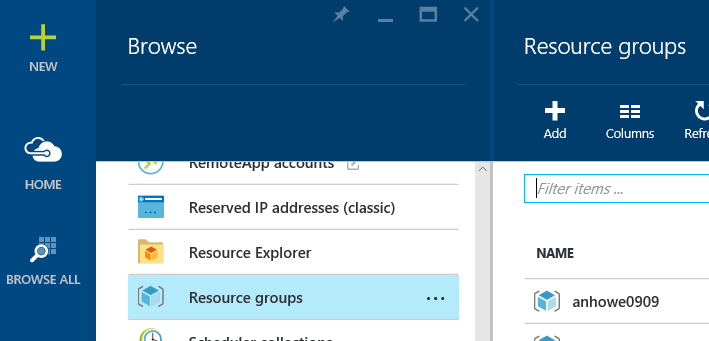
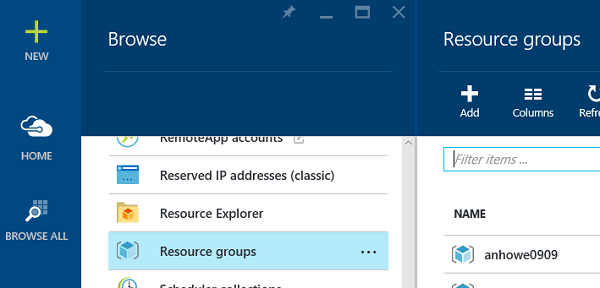
Added swarm walkthrough to readme and resized all images so they are less than 600 pixels wide

diff --git a/README.md b/README.md
@@ -85,6 +85,26 @@ This walk through is based the wonderful digital ocean tutorial: https://www.dig
 
  ![Image of mesos cluster on azure](https://raw.githubusercontent.com/anhowe/mesos-scalable-cluster/master/images/mesos-completed-tasks.png)
 
+# Swarm Walkthrough
+
+1. from the jumpbox browse to http://c1master1:5050/#/frameworks, and verify swarm is working:
+
+![Image of mesos cluster on azure](https://raw.githubusercontent.com/anhowe/mesos-scalable-cluster/master/images/swarm-framework.png)
+
+2. SSH to the master from the jumpbox or hitting port 2211 on the public IP
+
+3. Run "sudo docker ps" and observe that swarm is working
+
+4. Run "sudo docker -H tcp://0.0.0.0:2376 ps" and see there are no jobs
+
+5. Run "sudo docker -H tcp://0.0.0.0:2376 run hello-world" and notice the error about resource contraints.  Now add the constraints by running "sudo docker -H tcp://0.0.0.0:2376 run -m 256m hello-world" and watch it run.
+
+6. Run "sudo docker -H tcp://0.0.0.0:2376 ps -a" and see the hello-world that has just run
+
+7. Browse to http://c1master1:5050/, and see the "hello-world" process that has just completed.  Browse to Log:
+
+![Image of mesos cluster on azure](https://raw.githubusercontent.com/anhowe/mesos-scalable-cluster/master/images/docker-hello-world.png)
+
 # Questions
 **Q.** Why is there a jumpbox?
 
